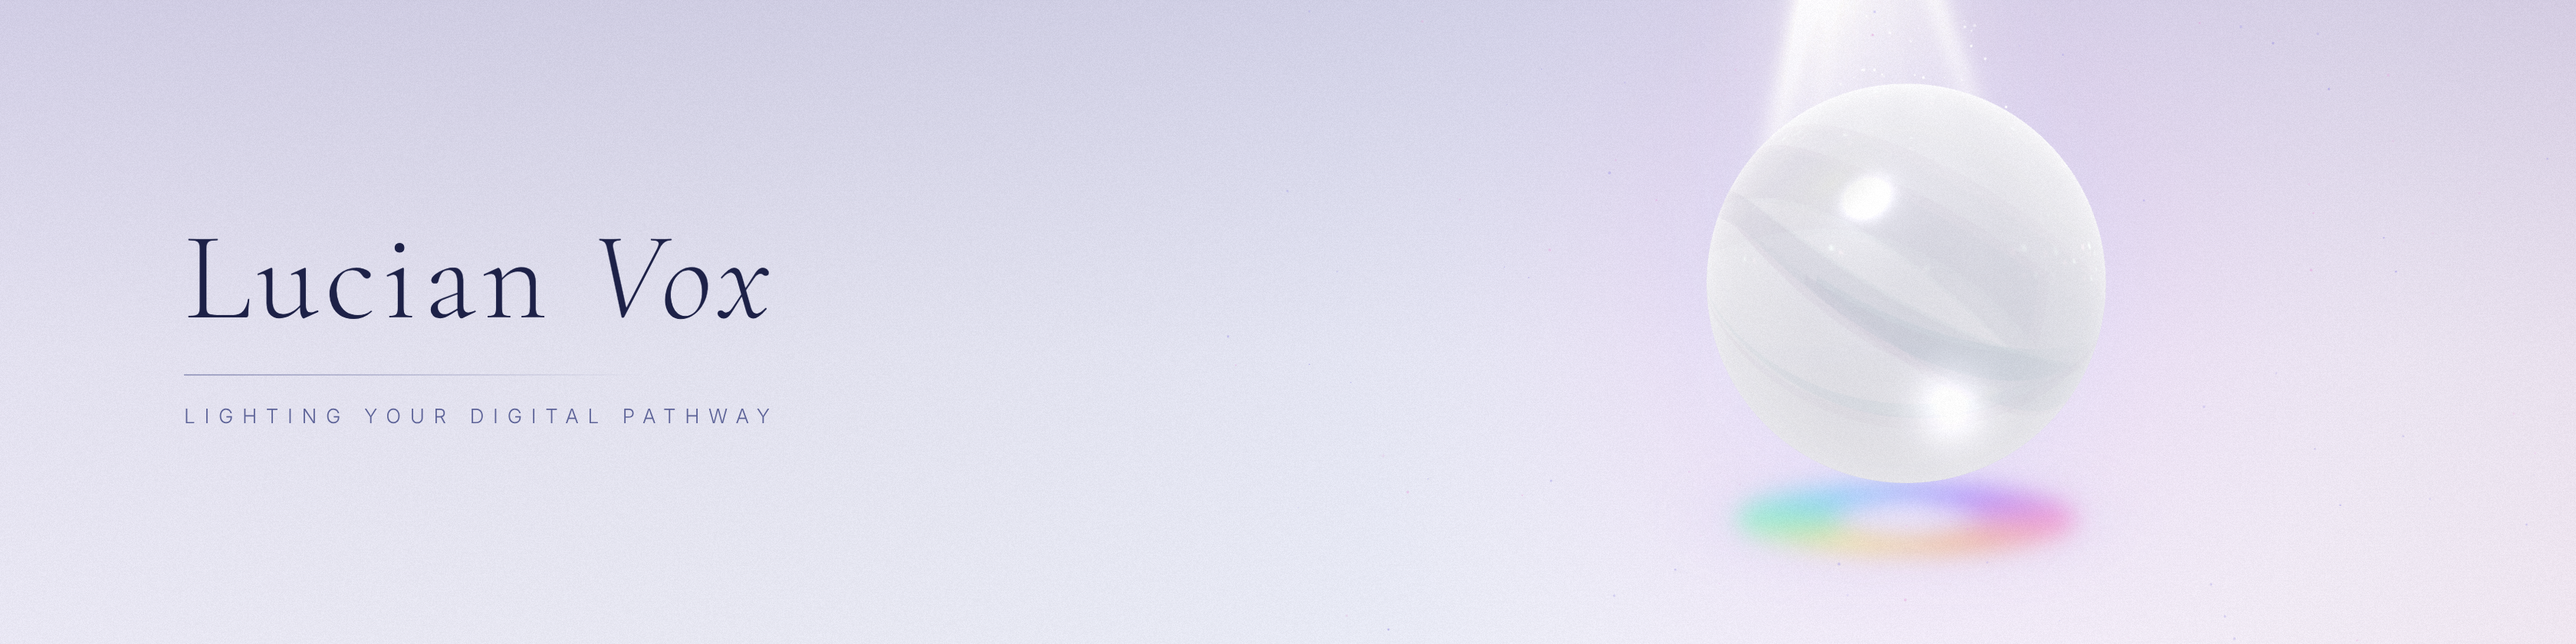
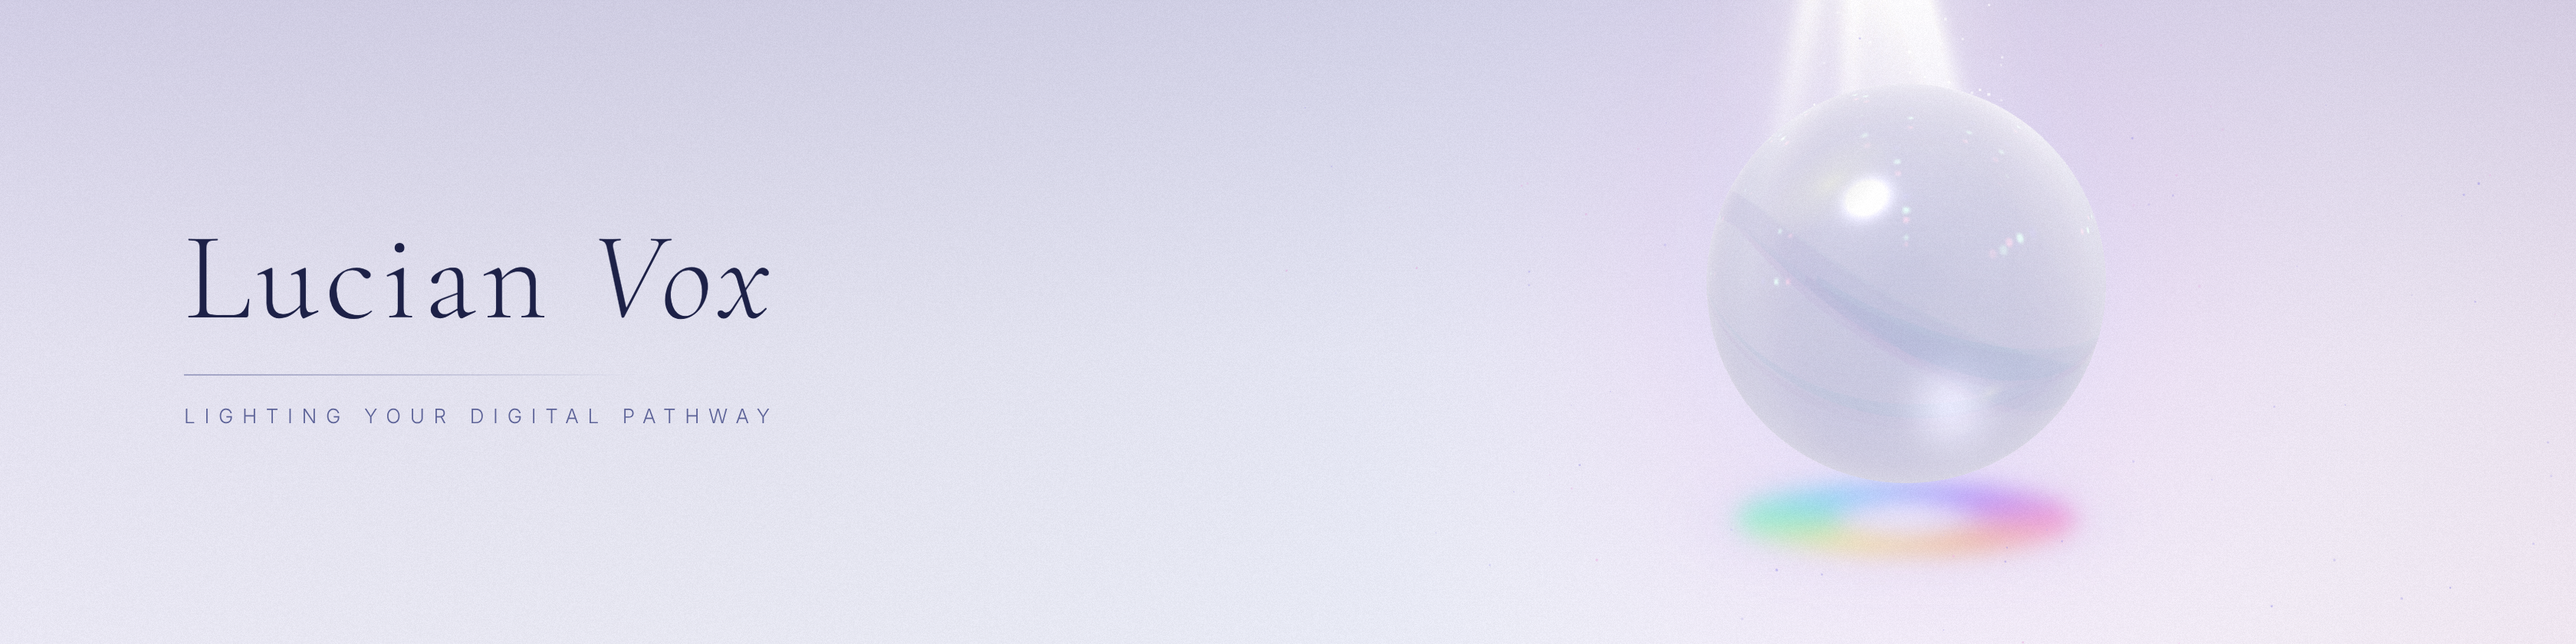
Orb: translucent clear glass
Claude-Session: https://claude.ai/code/session_01NNfMayHtDVknSJbkkHba8P

Changed region(s): [[0.6562, 0.3405, 0.7812, 0.7429], [0.7188, 0.1857, 0.75, 0.2167]]

diff --git a/rebrand/orb3d.html b/rebrand/orb3d.html
@@ -66,8 +66,8 @@ function mk(id,W,H,ox,oy,or,html){const el=document.createElement('div');el.clas
   fragmentShader:`uniform sampler2D t;uniform vec2 res;uniform float rpx;varying vec3 vN;
   vec3 smp(float ior){vec3 n=normalize(vN);vec3 d=refract(vec3(0.,0.,-1.),n,1./ior);d=refract(d,-n*vec3(1.,1.,1.),ior);
    float z=n.z;vec2 off=-n.xy*rpx*(1.-1./ior)*2.2*(0.6+0.4*z);return texture2D(t,(gl_FragCoord.xy+off)/res).rgb;}
-  void main(){vec3 n=normalize(vN);float r=smp(1.45).r,g=smp(1.5).g,b=smp(1.56).b;vec3 c=vec3(r,g,b);float l=dot(c,vec3(.299,.587,.114));c=mix(vec3(l),c,.2);c=mix(c,vec3(1.),.1);
-   float e=1.-n.z;c=mix(c,vec3(1.),.45*pow(e,2.5));c=mix(c,vec3(.55,.55,.62),smoothstep(.93,.995,e)*.55);c=mix(c,vec3(1.),smoothstep(.985,1.,e)*.7);c*=1.04+.07*n.y;vec3 L=normalize(vec3(-.35,.75,.55));float sp=pow(max(dot(reflect(-L,n),vec3(0.,0.,1.)),0.),60.);c+=vec3(sp)*.9;float sp2=pow(max(dot(reflect(-L,n),vec3(0.,0.,1.)),0.),6.);c+=vec3(sp2)*.08;vec2 hp=n.xy-vec2(.22,-.62);c+=vec3(1.,.99,.97)*exp(-dot(hp,hp)*30.)*.35;c=min(c,vec3(1.));
+  void main(){vec3 n=normalize(vN);float r=smp(1.45).r,g=smp(1.5).g,b=smp(1.56).b;vec3 c=vec3(r,g,b);float l=dot(c,vec3(.299,.587,.114));c=mix(vec3(l),c,.4);c=(c-.82)*1.6+.80;c=mix(c,c*vec3(.93,.94,.98),smoothstep(.2,-.9,n.y)*.6);
+   float e=1.-n.z;c=mix(c,vec3(1.),.22*pow(e,3.));c=mix(c,vec3(.55,.55,.62),smoothstep(.93,.995,e)*.55);c=mix(c,vec3(1.),smoothstep(.985,1.,e)*.7);c*=1.0+.04*n.y;vec3 L=normalize(vec3(-.35,.75,.55));float sp=pow(max(dot(reflect(-L,n),vec3(0.,0.,1.)),0.),60.);c+=vec3(sp)*.9;float sp2=pow(max(dot(reflect(-L,n),vec3(0.,0.,1.)),0.),6.);c+=vec3(sp2)*.04;vec2 hp=n.xy-vec2(.22,-.62);c+=vec3(1.,.99,.97)*exp(-dot(hp,hp)*30.)*.25;c=min(c,vec3(1.));
    gl_FragColor=vec4(c,1.);
    #include <colorspace_fragment>
   }`});
@@ -77,7 +77,7 @@ function mk(id,W,H,ox,oy,or,html){const el=document.createElement('div');el.clas
   fragmentShader:'varying vec3 n;varying vec3 v;void main(){float e=1.-abs(n.z);float f=pow(e,2.2)*.75+smoothstep(.9,1.,e)*.3;vec3 c=mix(vec3(.82,.82,.86),vec3(1.),smoothstep(-.6,.8,n.y));float sh=smoothstep(.3,-1.,n.y)*.12*(1.-e);gl_FragColor=vec4(mix(c,vec3(.72,.72,.78),sh),max(f*.35,sh));}'});
  const rmM=new THREE.Mesh(new THREE.SphereGeometry(1.001,128,96),rim);rmM.renderOrder=21;grp.add(rmM);
  const rm=new THREE.MeshBasicMaterial({vertexColors:true,transparent:true,opacity:.5,side:THREE.DoubleSide,depthWrite:false,depthTest:false});
- [[0,.0,.36,.1],[.5,.03,.22,.14],[1.0,-.03,.13,.2],[1.6,.05,.06,.28],[2.4,-.06,.03,.25]].forEach(([p,t,wd,op])=>{const mm=rm.clone();mm.opacity=op;mm.depthTest=true;mm.depthWrite=true;mm.side=THREE.DoubleSide;const m=new THREE.Mesh(ribbonGeo(1,p,t,wd),mm);m.rotation.set(.15,0,-.14);grpA.add(m)});
+ [[1.0,-.03,.13,.06],[1.6,.05,.06,.1],[2.4,-.06,.03,.09]].forEach(([p,t,wd,op])=>{const mm=rm.clone();mm.opacity=op;mm.depthTest=true;mm.depthWrite=true;mm.side=THREE.DoubleSide;const m=new THREE.Mesh(ribbonGeo(1,p,t,wd),mm);m.rotation.set(.15,0,-.14);grpA.add(m)});
  // soft specular highlight
  const hc=document.createElement('canvas');hc.width=hc.height=256;const hx=hc.getContext('2d');const hg=hx.createRadialGradient(128,128,0,128,128,128);hg.addColorStop(0,'rgba(255,255,255,1)');hg.addColorStop(.35,'rgba(255,255,255,.45)');hg.addColorStop(1,'rgba(255,255,255,0)');hx.fillStyle=hg;hx.fillRect(0,0,256,256);
  const hs=new THREE.Mesh(new THREE.PlaneGeometry(.75,.36),new THREE.MeshBasicMaterial({map:new THREE.CanvasTexture(hc),transparent:true,depthTest:false,depthWrite:false}));hs.position.set(-.38,.5,1.1);hs.rotation.z=.6;hs.renderOrder=30;grp.add(hs);
